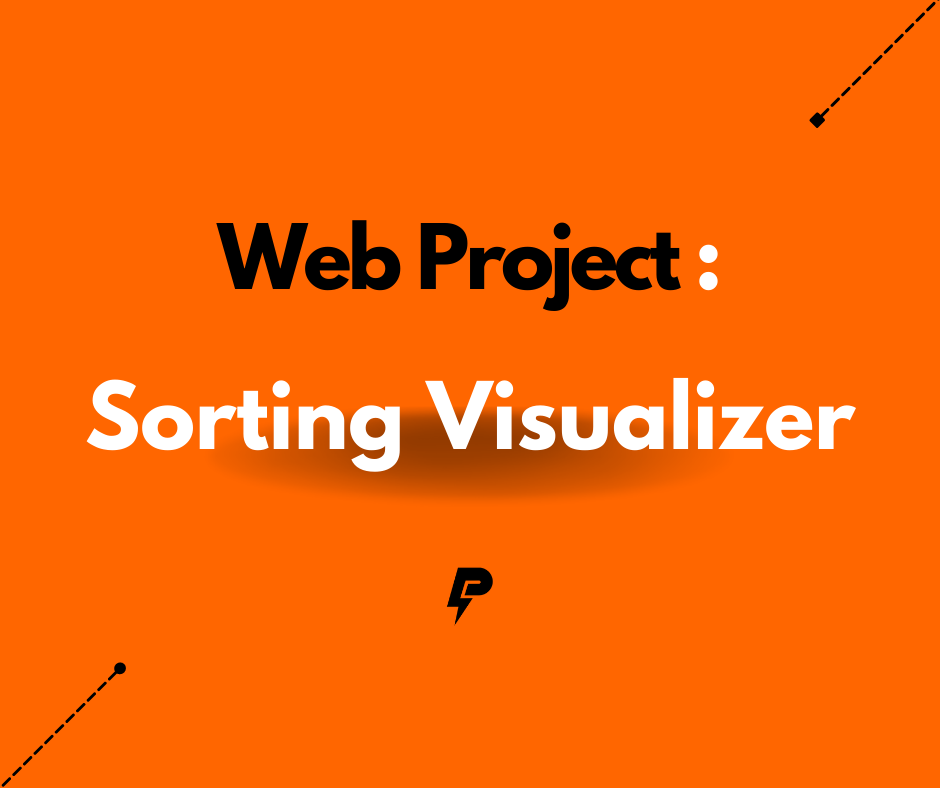
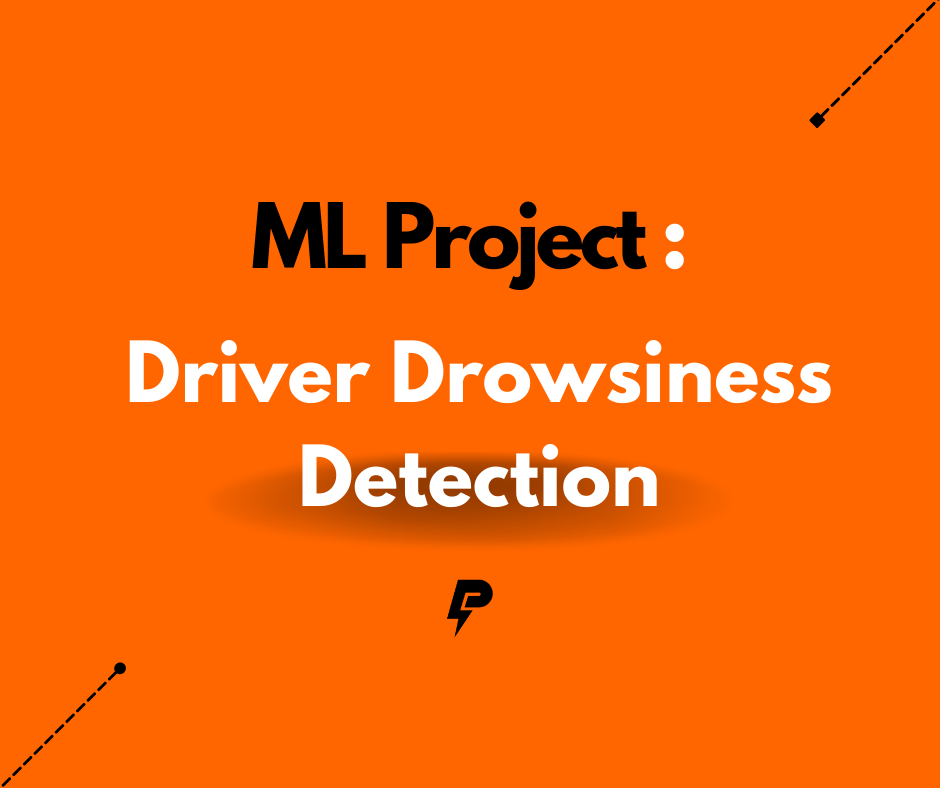
project 2 changed

Changed region(s): [[0.0926, 0.4264, 0.9255, 0.7919], [0.216, 0.2437, 0.7713, 0.3959]]

diff --git a/index.html b/index.html
@@ -113,11 +113,11 @@
                             <div class="projects__modal">
                                 <div>
                                     <span class="projects__subtitle">Web</span>
-                                    <h3 class="projects__title">Sorting Visualizer</h3>
-                                    <a href="https://thepritrax.github.io/SortingVisualizer/" class="projects__button button button__small">
+                                    <h3 class="projects__title">Driver Drowsiness Detection</h3>
+                                    <a href="https://github.com/ThePritrax/DriverDrowsiness" class="projects__button button button__small">
                                         <i class="ri-link"></i>
                                     </a>
-                                    <a href="https://github.com/ThePritrax/SortingVisualizer" class="projects__button button button__small">
+                                    <a href="https://github.com/ThePritrax/DriverDrowsiness" class="projects__button button button__small">
                                         <i class="ri-github-line"></i>
                                     </a>
                                 </div>
